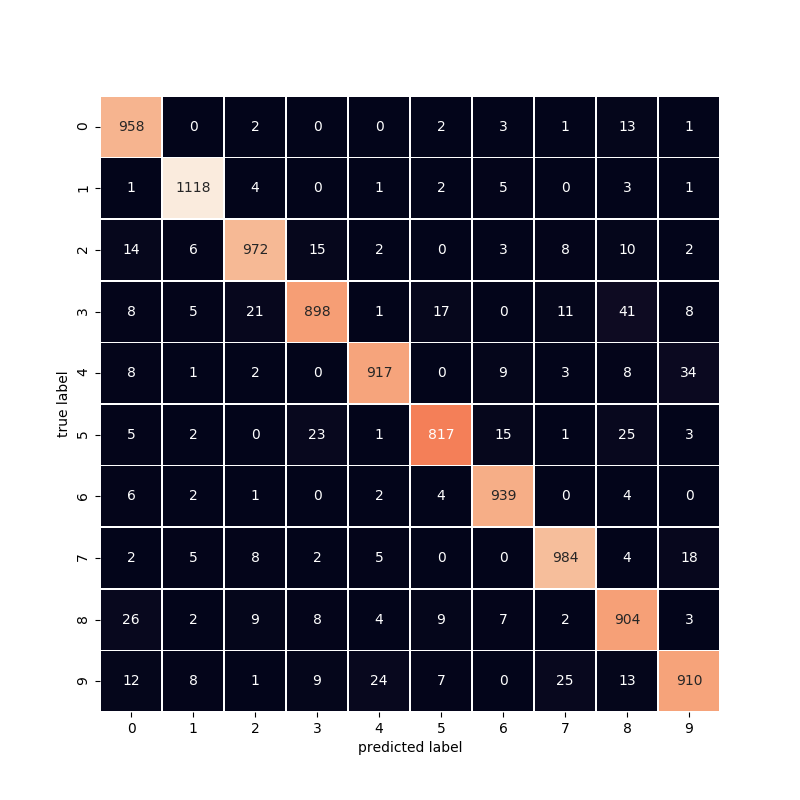
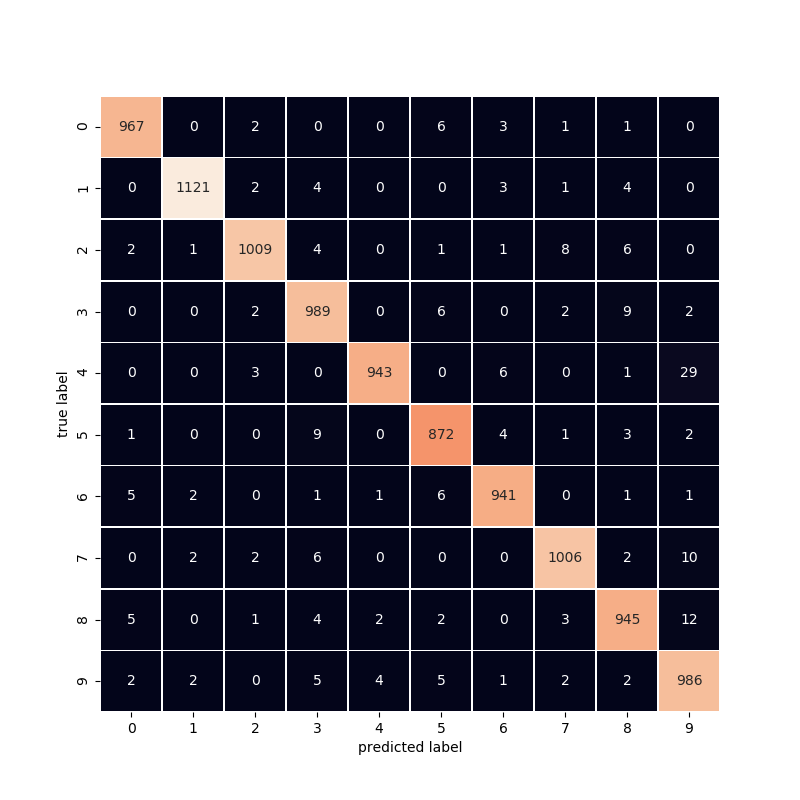
mnist bravo with cifar10net

diff --git a/bravo/mnist_bravo.py b/bravo/mnist_bravo.py
@@ -19,34 +19,36 @@ def get_keras_mnist_dataset(parameters=None):
     print('##   perform one-hot encoding on the classes')
     train_y = to_categorical(train_y, num_classes=10)
     test_y = to_categorical(test_y, num_classes=10)
-    labels = [v for v in range(10)]
+    labels = [str(v) for v in range(10)]
     data_shape = (28, 28, 1)
     return train_X, train_y, test_X, test_y, data_shape, labels
 
 
-def build_LeNet(data_shape, num_classes):
+def build_model(data_shape, num_classes):
     print('# LeNet')
     print("##   Build")
     model = Sequential()
-
-    # first set of CONV => RELU
-    model.add(Conv2D(20, (3, 3), strides=(2, 2), padding="same", input_shape=data_shape))
-    model.add(Activation("relu"))
-    # model.add(MaxPooling2D(pool_size=(2, 2), strides=(2, 2)))
-
-    # second set of CONV => RELU
-    model.add(Conv2D(50, (3, 3), strides=(2, 2), padding="same"))
-    model.add(Activation("relu"))
-    # model.add(MaxPooling2D(pool_size=(2, 2), strides=(2, 2)))
-
-    # first (and only) set of FC => RELU layers
+    model.add(Conv2D(32, (3, 3), padding='same',
+                     input_shape=data_shape))
+    model.add(Activation('relu'))
+    model.add(Conv2D(32, (3, 3)))
+    model.add(Activation('relu'))
+    model.add(MaxPooling2D(pool_size=(2, 2)))
+    model.add(Dropout(0.25))
+    
+    model.add(Conv2D(64, (3, 3), padding='same'))
+    model.add(Activation('relu'))
+    model.add(Conv2D(64, (3, 3)))
+    model.add(Activation('relu'))
+    model.add(MaxPooling2D(pool_size=(2, 2)))
+    model.add(Dropout(0.25))
+    
     model.add(Flatten())
-    model.add(Dense(500))
-    model.add(Activation("relu"))
-
-    # softmax classifier
+    model.add(Dense(512))
+    model.add(Activation('relu'))
+    model.add(Dropout(0.5))
     model.add(Dense(num_classes))
-    model.add(Activation("softmax"))
+    model.add(Activation('softmax'))
 
     print("##   Compile")
     model.compile(optimizer='adadelta', loss="categorical_crossentropy", metrics = ['accuracy'])
@@ -58,8 +60,8 @@ def build_LeNet(data_shape, num_classes):
 
 if __name__ == '__main__':
     train_X, train_y, test_X, test_y, data_shape, labels = get_keras_mnist_dataset()
-    model = build_LeNet(data_shape, len(labels))
+    model = build_model(data_shape, len(labels))
     classifier = Classifier()
-    classifier.train_epochs = 4
+    classifier.train_epochs = 100
     classifier.output = 'bravo'
     classifier.train(model, train_X, train_y, test_X, test_y, labels)
